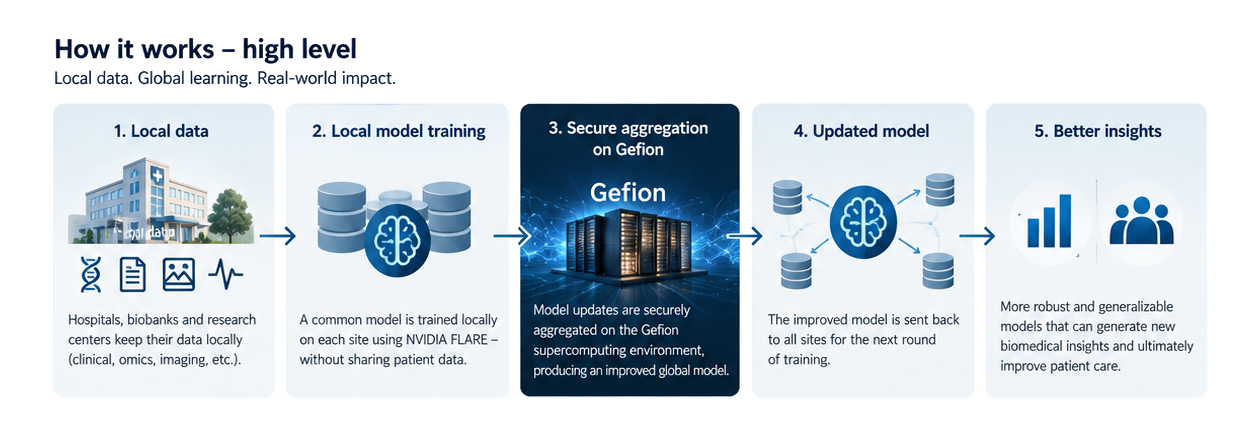
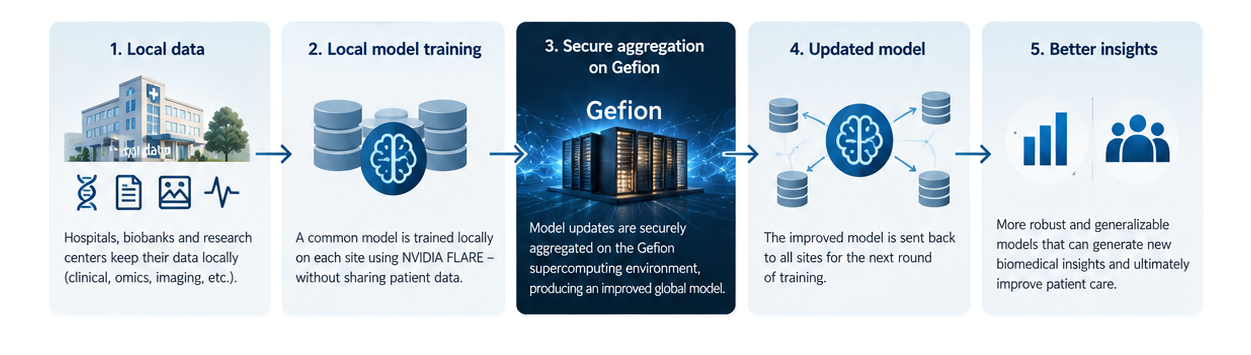
Make README graphics theme-aware

diff --git a/README.md b/README.md
@@ -255,7 +255,11 @@ The federation interface is intended to be deny-by-default.
 ## Key capabilities
 
 <p align="center">
-  <img src="docs/assets/superfedmmd-capabilities.png" width="100%" alt="Key SuperFedMMD capabilities including privacy-preserving federation, multimodal data, scalable Gefion infrastructure and reproducibility">
+  <picture>
+    <source media="(prefers-color-scheme: dark)" srcset="docs/assets/superfedmmd-capabilities-dark.png">
+    <source media="(prefers-color-scheme: light)" srcset="docs/assets/superfedmmd-capabilities-light.png">
+    <img src="docs/assets/superfedmmd-capabilities-light.png" width="100%" alt="Key SuperFedMMD capabilities including privacy-preserving federation, multimodal data, scalable Gefion infrastructure and reproducibility">
+  </picture>
 </p>
 
 The infrastructure is intended to support heterogeneous multimodal sites, reproducible federated execution, controlled outbound communication and multi-institution collaboration without centralising the underlying biomedical source data.
